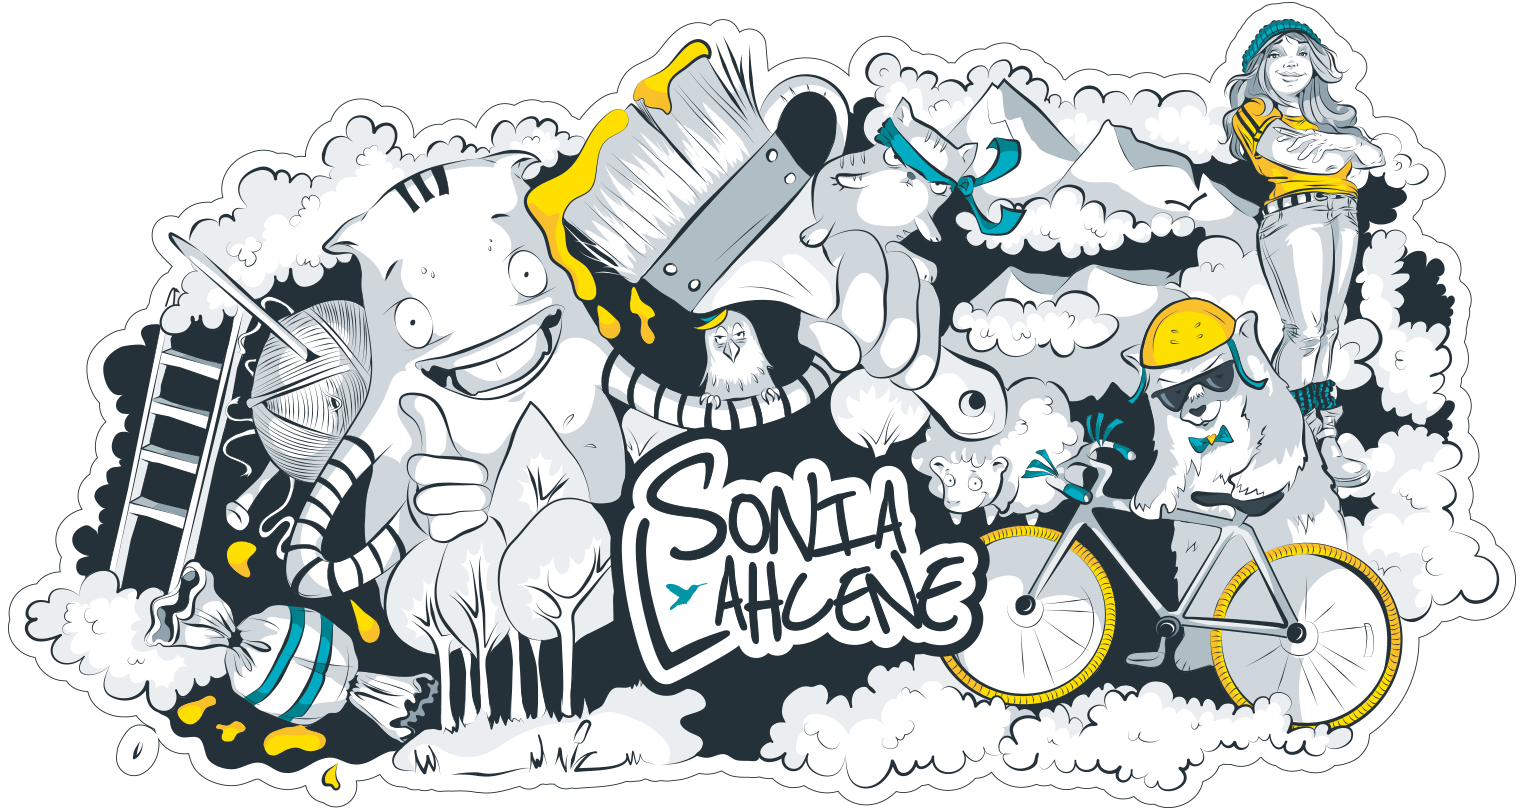
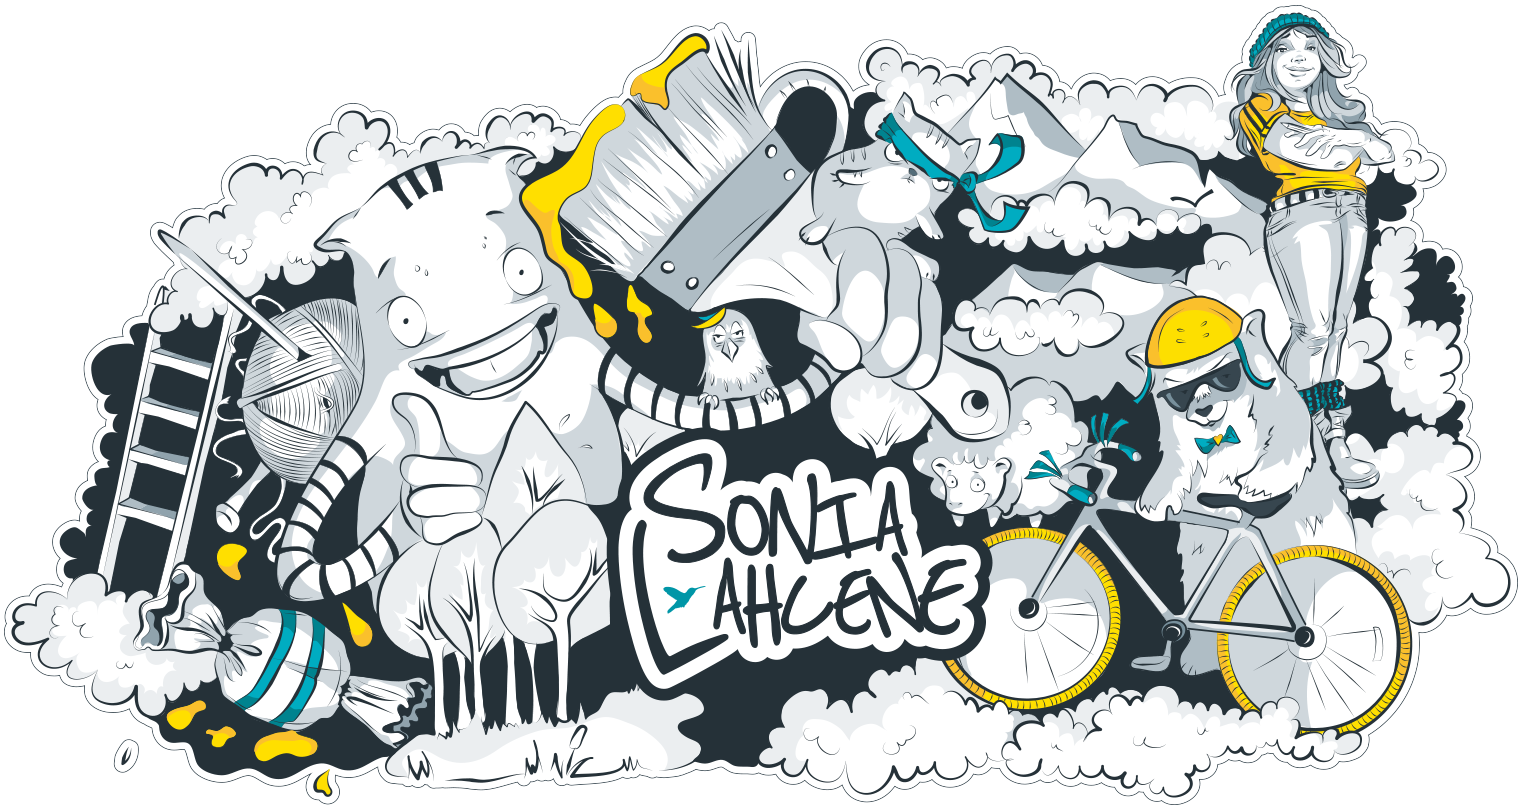
new doodles

Changed region(s): [[0.0, 0.0, 1.0, 1.0], [0.5246, 0.3708, 0.5555, 0.4017]]

diff --git a/css/main.css b/css/main.css
@@ -105,7 +105,7 @@ header {
 .contact-icons {
     display: inline-block; 
     position: absolute;
-    bottom: -5px;
+    bottom: -1px;
     right: 0; 
     margin-right: 20px;
 }
@@ -552,9 +552,9 @@ only screen and (                min-resolution: 2dppx) {
 
     #doodle {
         background-image: url('../assets/mobile_doodle.png');
-        top: 0px;
+        top: 0%;
         background-position: 50% 50%;
-        background-size: 100%;
+        background-size: 85%;
     }
 
      #about, #portfolio {
@@ -575,6 +575,18 @@ only screen and (                min-resolution: 2dppx) and (max-width: 625px) {
         background-image: url('../assets/mobile_doodle@2x.png');
     }
 }
+
+/* Until 535px align left "sonia lahcene graphic design" and menu items*/
+@media screen and (max-width: 534px){   
+    #menu-items {
+        margin-left: 19px;
+    }
+
+    .pure-menu-heading.sonial {
+        padding-bottom: 0;
+    }
+}
+
 
 /* Until 490px stick the contacts details under the icon and title*/
 @media screen and (max-width: 490px){   
@@ -605,7 +617,7 @@ break line after my photo
     }
 
     a.pure-menu-heading.sonial {
-        padding-left: 1em!important;
+        padding: 5px 15px 0px !important;
     }
 
     ul#menu-items {
